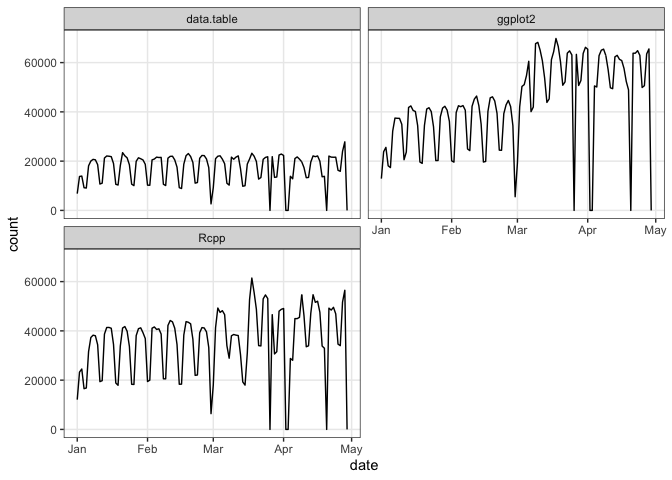
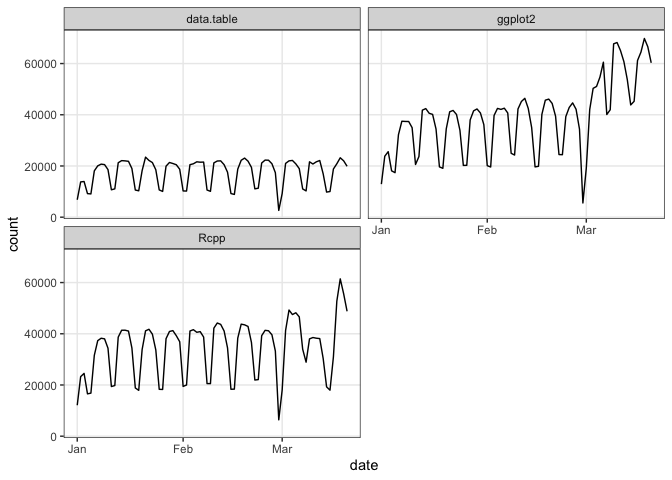
copyedit

diff --git a/content/post/2020-03-03-packageRank/index.md b/content/post/2020-03-03-packageRank/index.md
@@ -13,11 +13,6 @@ output:
 
 
 
-
-```r
-library(packageRank)
-library(ggplot2)
-```
 > This post was contributed by [Peter Li](https://www.github.com/lindbrook/). Thank you, Peter!
 
 [`packageRank`](https://cran.r-project.org/package=packageRank) is an R package that helps put package download counts into context. It does so via two functions. The first, `cranDownloads()`, extends [`cranlogs::cran_downloads()`](http://r-hub.github.io/cranlogs/) by adding a `plot()` method and a more user-friendly interface. The second, `packageRank()`, uses rank percentiles, a nonparametric statistic that tells you the percentage of packages with fewer downloads, to help you see how your package is doing compared to all other [CRAN](https://cran.r-project.org/) packages.
@@ -27,6 +22,12 @@ In this post, I'll do two things. First, I'll give an overview of the package's 
 Note that in this post, I'll refer to _active_ and _inactive_ packages: the former are packages that are still being developed and appear in the [CRAN repository](https://cran.r-project.org/web/packages/index.html); the latter are "retired" packages that are stored in the [CRAN Archive](https://cran.r-project.org/src/contrib/Archive) along with past versions of active packages.
 
 ******
+
+
+```r
+library(packageRank)
+library(ggplot2)
+```
 
 # cranDownloads()
 
@@ -119,8 +120,6 @@ cranlogs::cran_downloads(packages = "HistData", from = "2020-02-01",
   to = "2020-02-29")
 ```
 
-<br/>
-
 With `cranDownloads()`, you can just specify the year and month:
 
 
@@ -182,7 +181,7 @@ If you pass a vector of package names, `plot()` defaults to using `ggplot2` face
 
 ```r
 plot(cranDownloads(packages = c("ggplot2", "data.table", "Rcpp"),
-  from = "2020"))
+  from = "2020", to = "2020-03-20"))
 ```
 
 {{<figure src="cranDownloads_viz2-1.png" title="Figure 2 Visualize cranDownloads() for Multiple Packages">}}
@@ -193,7 +192,7 @@ If you want the data in a single plot, use `multi.plot = TRUE`:
 
 ```r
 plot(cranDownloads(packages = c("ggplot2", "data.table", "Rcpp"),
-  from = "2020"), multi.plot = TRUE)
+  from = "2020", to = "2020-03-20"), multi.plot = TRUE)
 ```
 
 See the documentation for `plot.cranDownloads()` for more plotting options ([also on GitHub](https://www.github.com/lindbrook/packageRank/)).
@@ -229,6 +228,8 @@ One way to answer these questions is to locate your package in the frequency dis
 As you can see, the frequency distribution of package downloads typically has a heavily skewed, exponential shape. On the Wednesday, the most "popular" package had 177,745 downloads while the least "popular" package(s) had just one. This is why the left side of the distribution, where packages with fewer downloads are located, _looks_ like a vertical line.
 
 To see what's going on, I take the log of download counts (x-axis) and redraw the graph. In these plots, the location of a vertical segment along the x-axis represents a download count and the height of a vertical segment represents the frequency of a download count:
+
+<br/>
 
 
 
@@ -333,7 +334,7 @@ round(100 * pkgs.with.fewer.downloads / tot.pkgs, 1)
 
 ## Visualizing rank percentiles
 
-To visualize `packageRank()`, use `plot()`.
+To visualize `packageRank()`, use `plot()`:
 
 
 ```r
@@ -394,7 +395,7 @@ The first is that **package updates inflate download counts**. Based on my readi
 
 The second is that **package dependencies inflate download counts**. The problem, in a nutshell, is that when a user chooses to download a package, they do not choose to download all the supporting, upstream packages (i.e., package dependencies) that are downloaded along with the chosen package. To me, this is the elephant-in-the-room of download count inflation (and one reason why `cranlogs::cran_top_downloads()` returns the usual suspects). This was one of the problems I was hoping to tackle with [`packageRank`](https://cran.r-project.org/package=packageRank). What stopped me was the discovery of the next objection, which will be the focus of the rest of this post.
 
-The third is that **two types of "invalid" log entries inflate download counts**: 1) downloads that are "too small" and 2) an overrepresentation of past versions. Downloads that are "too small" are, apparently, a software artifact. The overrepresentation of prior versions is a consequence what appears to be efforts to mirror or download CRAN in its entirety. These efforts makes both "invalid" types of downloads particularly problematic. Numerically, they undermine our strategy of computing package downloads by counting logs entries. Conceptually, they lead us to overestimate the amount of interest in a package.
+The third is that **"invalid" log entries inflate download counts**. I've found two types: 1) downloads that are "too small" and 2) an overrepresentation of past versions. Downloads that are "too small" are, apparently, a software artifact. The overrepresentation of prior versions is a consequence of what appears to be efforts to mirror or download CRAN in its entirety. These efforts makes both "invalid" log entries particularly problematic. Numerically, they undermine our strategy of computing package downloads by counting logs entries. Conceptually, they lead us to overestimate the amount of interest in a package.
 
 The inflationary effect of "invalid" log entries is variable. The greater a package's "true" popularity (i.e., the number of "real" downloads), the lower the bias. Essentially, the bias gets diluted. The greater the number of prior versions, the greater the bias. When all of CRAN is being downloaded, more versions means more package downloads. Fortunately, we can minimize the bias by filtering out "small" downloads, and by filtering out or discounting prior versions.
 
@@ -554,7 +555,7 @@ With 'VR', past version inflate the download count by 7,500%:
 
 <br/>
 
-## Popularity & versions
+## Popularity & number of versions
 
 To illustrate the joint effect of both ~500 B downloads and previous versions, I again use [`cholera`](https://cran.r-project.org/package=cholera). Here, we see that the joint effect of both biases inflate the download count by 31%:
 
@@ -566,7 +567,7 @@ To illustrate the joint effect of both ~500 B downloads and previous versions, I
 
 Even though the bias is pretty mechanical and deterministic, to show that examples above are not idiosyncratic, I conclude with a back-of-the-envelope estimate of the joint, simultaneous effect of popularity (unfiltered downloads) and version count (total number of versions) on total bias (the percent change in download counts after filtering out ~500 B download and prior versions).
 
-I use the above sample of 200 active and inactive packages as the data. I fit an ordinary least squares (OLS) linear model of the effect of popularity and the number of versions on bias (using the base 10 logarithm of all three variables). To control for an interaction between popularity and the number of versions (i.e., popular packages tend to have many version; packages with many version tend to attract more downloads), I include a multiplicative term between popularity and the number of versions as a third independent variable. The results are below:
+I use the above sample of 200 active and inactive packages as the data. I fit an ordinary least squares (OLS) linear model using the base 10 logarithm for the three variables. To control for interaction between popularity and number of versions (i.e., popular packages tend to have many version; packages with many version tend to attract more downloads), I include a multiplicative term between the two variables. The results are below:
 
 
 
@@ -595,7 +596,7 @@ Multiple R-squared:  0.9567,	Adjusted R-squared:  0.956
 F-statistic:  1435 on 3 and 195 DF,  p-value: < 2.2e-16
 ```
 
-The hope is that we get the signs right. By that I mean that the signs of the coefficients ("Estimate") of the fitted model are consistent with the effects described above: "popularity" has a negative sign (greater popularity is associated with lower bias) and "versions" has a positive sign (a greater number of versions is associated with higher bias). For what it's worth, the coefficients and the model itself are statistically significant at conventional level (large t-scores and small p-values; large F-statistic with small p-value).
+The hope is that I at least get the signs right. That is, the signs of the coefficients in the fitted model ("Estimate" column in the table above) should match the effects described in the sections above: a negative sign for "popularity", implying that greater popularity is associated with lower bias; a positive sign for "versions", implying that a greater number of versions is associated with higher bias). For what it's worth, the coefficients and the model itself are statistically significant at conventional levels (large t-values and small p-scores for the former; large F-statistic with a small p-score for the latter).
 
 ******
 
